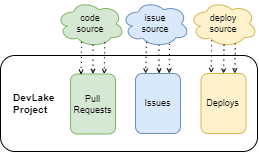
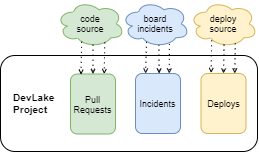
Co-authored-by: Startrekzky <kaiyun.zhang@merico.dev> docs: consistent naming for incidents

diff --git a/docs/_temp/Installation.md b/docs/_temp/Installation.md
@@ -6,17 +6,17 @@ description: >
 ---
 
 ## 1. Introduction
-A typical team of developers works with `pull requests`, `deployments`, and `issues` (a.k.a. Bugs for deployment).
+A typical team of developers works with `pull requests`, `deployments`, and `incidents` (a.k.a. Bugs for deployment).
 
 Based on such, we want to measure their productivity and stability. This is how [DORA](docs/DORA.md) does that:
 - Productivity:
   - How many times does the team `deploy`? (a.k.a. [Deployment Frequency](docs/Metrics/DeploymentFrequency.md))
   - How fast are the `pull requests` resolved? (a.k.a. [Lead Time](docs/Metrics/LeadTimeForChanges.md))
 - Stability:
-  - How many `issues` per `deploys` does the team have? (a.k.a. [Change Failure Rate](docs/Metrics/CFR.md))
-  - How fast are these `issues` solved? (a.k.a. [Median Time to Restore](docs/Metrics/MTTR.md))
+  - How many `incidents` per `deploys` does the team have? (a.k.a. [Change Failure Rate](docs/Metrics/CFR.md))
+  - How fast are these `incidents` solved? (a.k.a. [Median Time to Restore](docs/Metrics/MTTR.md))
 
-All these questions/metrics are based on either `pull requests`, `deployments`, or `issues`.
+All these questions/metrics are based on either `pull requests`, `deployments`, or `incidents`.
 
 But when we scale this up, few problems arise:
 - A team usually works with multiple repositories
@@ -27,13 +27,13 @@ This is where the `project` concept comes to play.
 
 ## 2. What is a DevLake project?
 In the real world, a project is something being built and/or researched to solve some problem or to open new grounds.
-In software development, a project is just a grouping of something. In DevLake, a `project` is a grouping of `pull requests`, `deployments`, or `issues`.
+In software development, a project is just a grouping of something. In DevLake, a `project` is a grouping of `pull requests`, `deployments`, or `incidents`.
 
 ![](project_simple.png)
 
 ## 3. As a team lead, how many DevLake projects do I need?
 
-Because of its simplicity, the concept is flexible: you decide how to arrange `pull requests`, `deployments`, and `issues`
+Because of its simplicity, the concept is flexible: you decide how to arrange `pull requests`, `deployments`, and `incidents`
 either by your specific projects, by teams, technology, or any other way.
 
 Let's consider an example:
